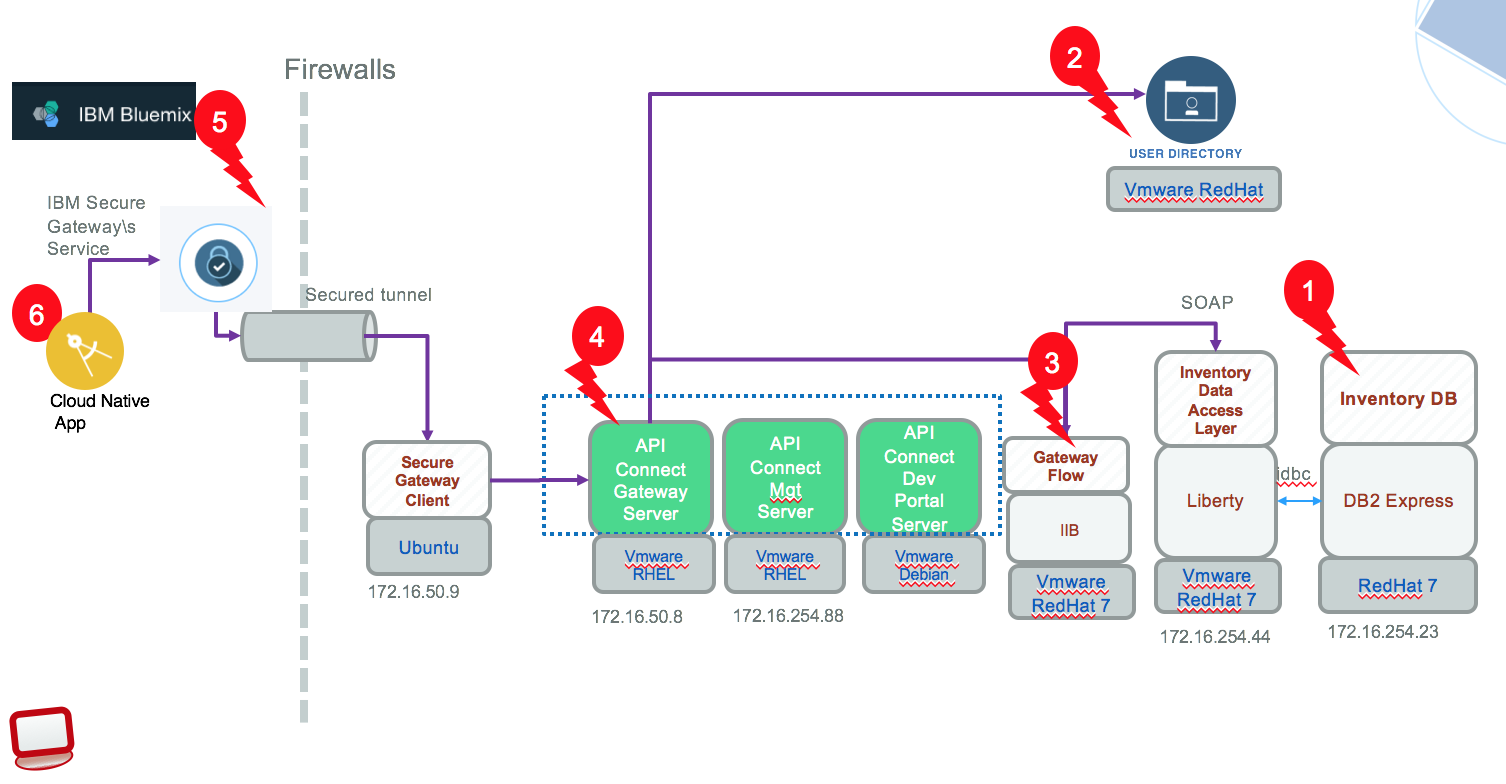
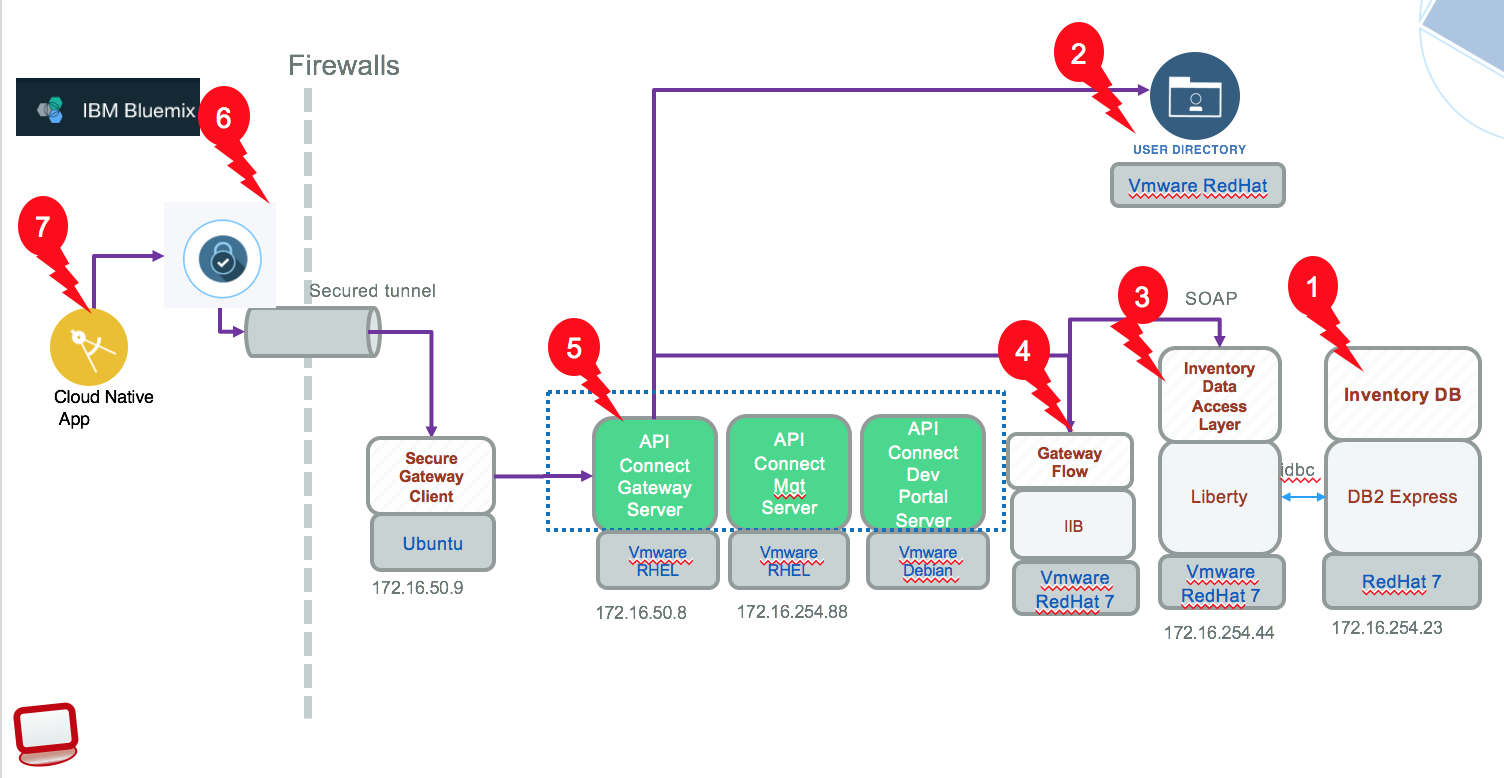
Tune tests for DAL

diff --git a/README.md b/README.md
@@ -4,12 +4,13 @@ This project is part of the 'IBM Integration Reference Architecture' suite, avai
 The goal of this test project, is to validate the different components of the hybrid integration architecture at the interface level, and build a suite of test cases for non-regression test. The project can be deployed to a build server and tests executed automatically once all the dependent components are up and running on their own environment. When a test fails, developer should be able to quickly react. Issue could be linked to a service interface contract change, or a behavioral changes identifiable at the consumer level.
 
 The components tested are :
-* [DB2 inventory database](#db2-validation)
-* [Data Access Layer - JAXWS application](#dal-validation)
-* [IIB gateway flow](#iib-gateway-flow)
-* [API Connect - Exposed RESTful API](#api-gateway-validation)
-* [Secure Gateway proxy](##secure-gateway-on-bluemix-validation)
-* REST API of the [Case Inc Portal back end](#portal) for front end for the Bluemix app.
+* [1- DB2 inventory database](#db2-validation)
+* [2 - LDAP](#ldap)
+* [3- Data Access Layer - JAXWS application](#dal-validation)
+* [4- IIB gateway flow](#iib-gateway-flow)
+* [5- API Connect - Exposed RESTful API](#api-gateway-validation)
+* [6- Secure Gateway proxy](##secure-gateway-on-bluemix-validation)
+* [7- REST API of the [Case Inc Portal back end](#portal) for front end for the Bluemix app.
 
 We can support different configuration depending of the deployment strategy selected. We have presented the different configurations for deploying the component of the solution to IBM Cloud Private in [this note](). Testing will be at the interface level but end point will differ depending of the deployment.
 
@@ -17,7 +18,7 @@ This first figure illustrates an hybrid public cloud - on-premise with the diffe
 ![](./docs/it-test-onp.png)
 
 While the following figure illustrates the same targets with one of the potential ICP configuration:
-![](.docs/it-test-icp.png)
+![](./docs/it-test-icp.png)
 
 
 # Test Driven development
